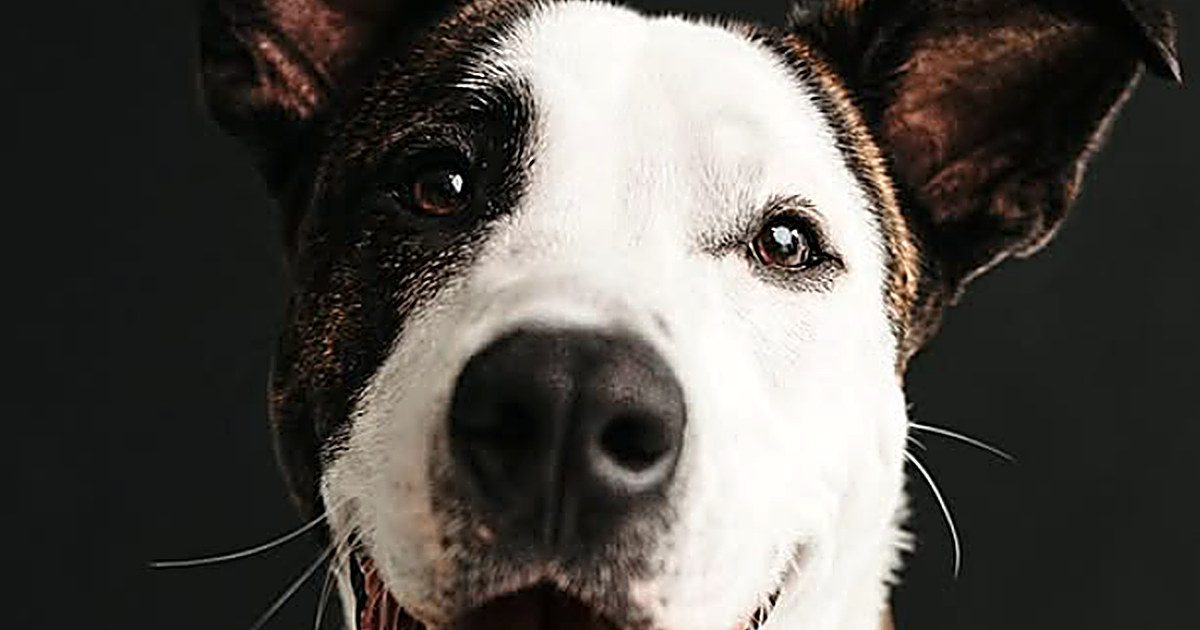
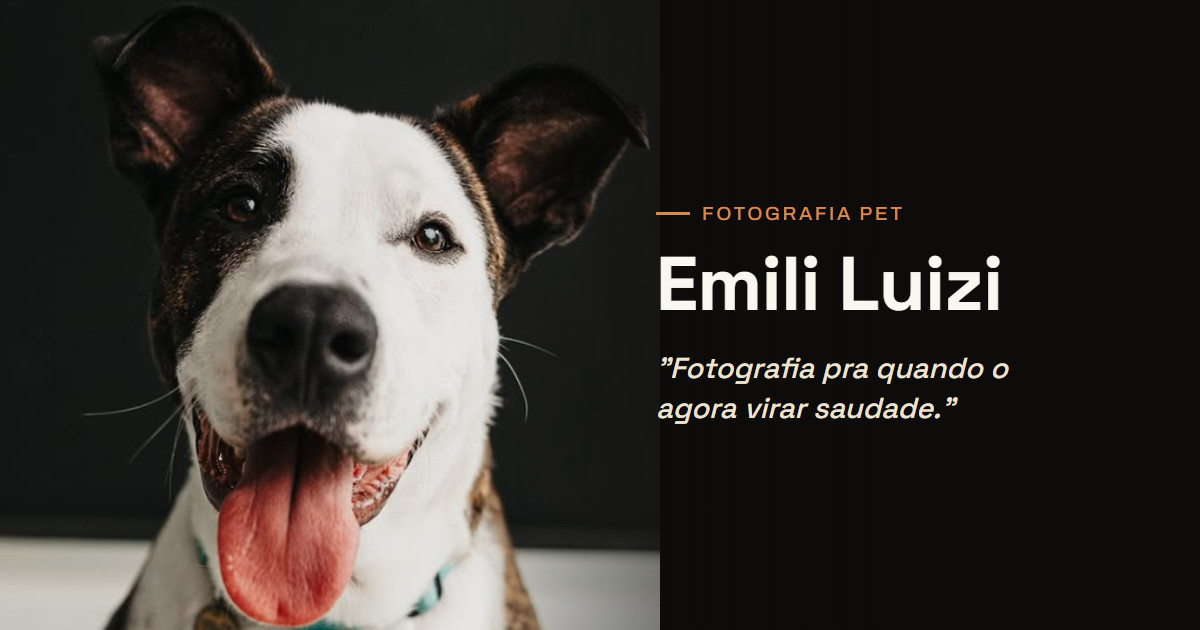
Substitui og:image por card com nome e slogan
O crop anterior mostrava so o cachorro, sem nenhuma identificacao da
marca no preview de compartilhamento. Novo og.jpg e um card dedicado
(og-card.html + render-og.mjs) com a foto + "Emili Luizi" + slogan, no
mesmo estilo tipografico do site.

diff --git a/ferramentas/og-card.html b/ferramentas/og-card.html
@@ -1,0 +1,53 @@
+<!DOCTYPE html>
+<html lang="pt-BR">
+<head>
+<meta charset="UTF-8">
+<link rel="stylesheet" href="https://fonts.googleapis.com/css2?family=Space+Grotesk:wght@500;700&family=Archivo:wght@400;500&display=swap">
+<style>
+  *{ margin:0; padding:0; box-sizing:border-box; }
+  html,body{ width:1200px; height:630px; overflow:hidden; }
+  body{
+    font-family:'Archivo', sans-serif;
+    background:#0D0C0A;
+    position:relative;
+  }
+  .foto{
+    position:absolute; top:0; left:0; width:660px; height:630px;
+    object-fit:cover; object-position:60% 25%;
+    filter:brightness(.92);
+  }
+  .veu{
+    position:absolute; inset:0;
+    background:linear-gradient(90deg, rgba(13,12,10,0) 40%, rgba(13,12,10,.55) 58%, #0D0C0A 74%);
+  }
+  .conteudo{
+    position:absolute; right:64px; top:0; bottom:0; width:480px;
+    display:flex; flex-direction:column; justify-content:center;
+  }
+  .kicker{
+    display:flex; align-items:center; gap:12px;
+    color:#D68A4E; font-size:19px; font-weight:600; letter-spacing:.14em; text-transform:uppercase;
+    margin-bottom:22px;
+  }
+  .kicker::before{ content:''; width:34px; height:3px; background:#D68A4E; display:block; }
+  h1{
+    font-family:'Space Grotesk', sans-serif; font-weight:700;
+    font-size:76px; line-height:1; color:#FAF7F1; letter-spacing:-.01em;
+    margin-bottom:26px;
+  }
+  p{
+    font-family:'Space Grotesk', sans-serif; font-style:italic; font-weight:500;
+    font-size:29px; line-height:1.35; color:#ECE3D3; max-width:420px;
+  }
+</style>
+</head>
+<body>
+  <img class="foto" src="../assets/originais/fotos_emili_luizi/cachorro_closeup.png" alt="">
+  <div class="veu"></div>
+  <div class="conteudo">
+    <span class="kicker">Fotografia Pet</span>
+    <h1>Emili Luizi</h1>
+    <p>"Fotografia pra quando o agora virar saudade."</p>
+  </div>
+</body>
+</html>

diff --git a/ferramentas/build_imagens.py b/ferramentas/build_imagens.py
@@ -66,7 +66,8 @@ if __name__ == "__main__":
     for origem, saida, foco_y in galeria:
         preparar(origem, saida, 800, 1000, foco=(0.5, foco_y))
 
-    # ---- OG ----
-    preparar("cachorro_closeup.png", "og", 1200, 630, foco=(0.5, 0.32))
+    # OG: NAO gerado aqui -- e um card com nome/slogan por cima da foto,
+    # renderizado a partir de ferramentas/og-card.html (ver render-og.mjs
+    # ou o proprio README para o passo a passo de regerar).
 
     print("done")

diff --git a/README.md b/README.md
@@ -51,6 +51,16 @@ mostra a tela em branco nesse meio-tempo, mesmo com layout correto. Ou seja, tes
 lógica de verdade, mas não vi a animação rodar com os próprios olhos — vale seu retest
 visual direto no navegador antes de aprovar.
 
+## Imagem de compartilhamento (og:image)
+
+`assets/img/og.jpg`/`.webp` não vem do `build_imagens.py` — é um card com o nome e o
+slogan por cima da foto (pra quem recebe o link no WhatsApp já reconhecer a marca antes
+de clicar). Pra gerar de novo: `ferramentas/og-card.html` é a peça (HTML+CSS isolado,
+mesma paleta/tipografia do site), renderizada em PNG via `ferramentas/render-og.mjs`
+(node, precisa de `npm install ws` antes — não fica no repo) e depois convertida com
+`Image.open(...).save('assets/img/og.jpg')`. Editar o texto/posição é editar o HTML e
+rodar de novo.
+
 ## Estrutura das 9 seções
 
 Hero (foto+slogan) → Selos → Sobre (+ selo do estúdio meia.) → 5 Tipos de ensaio (card com
